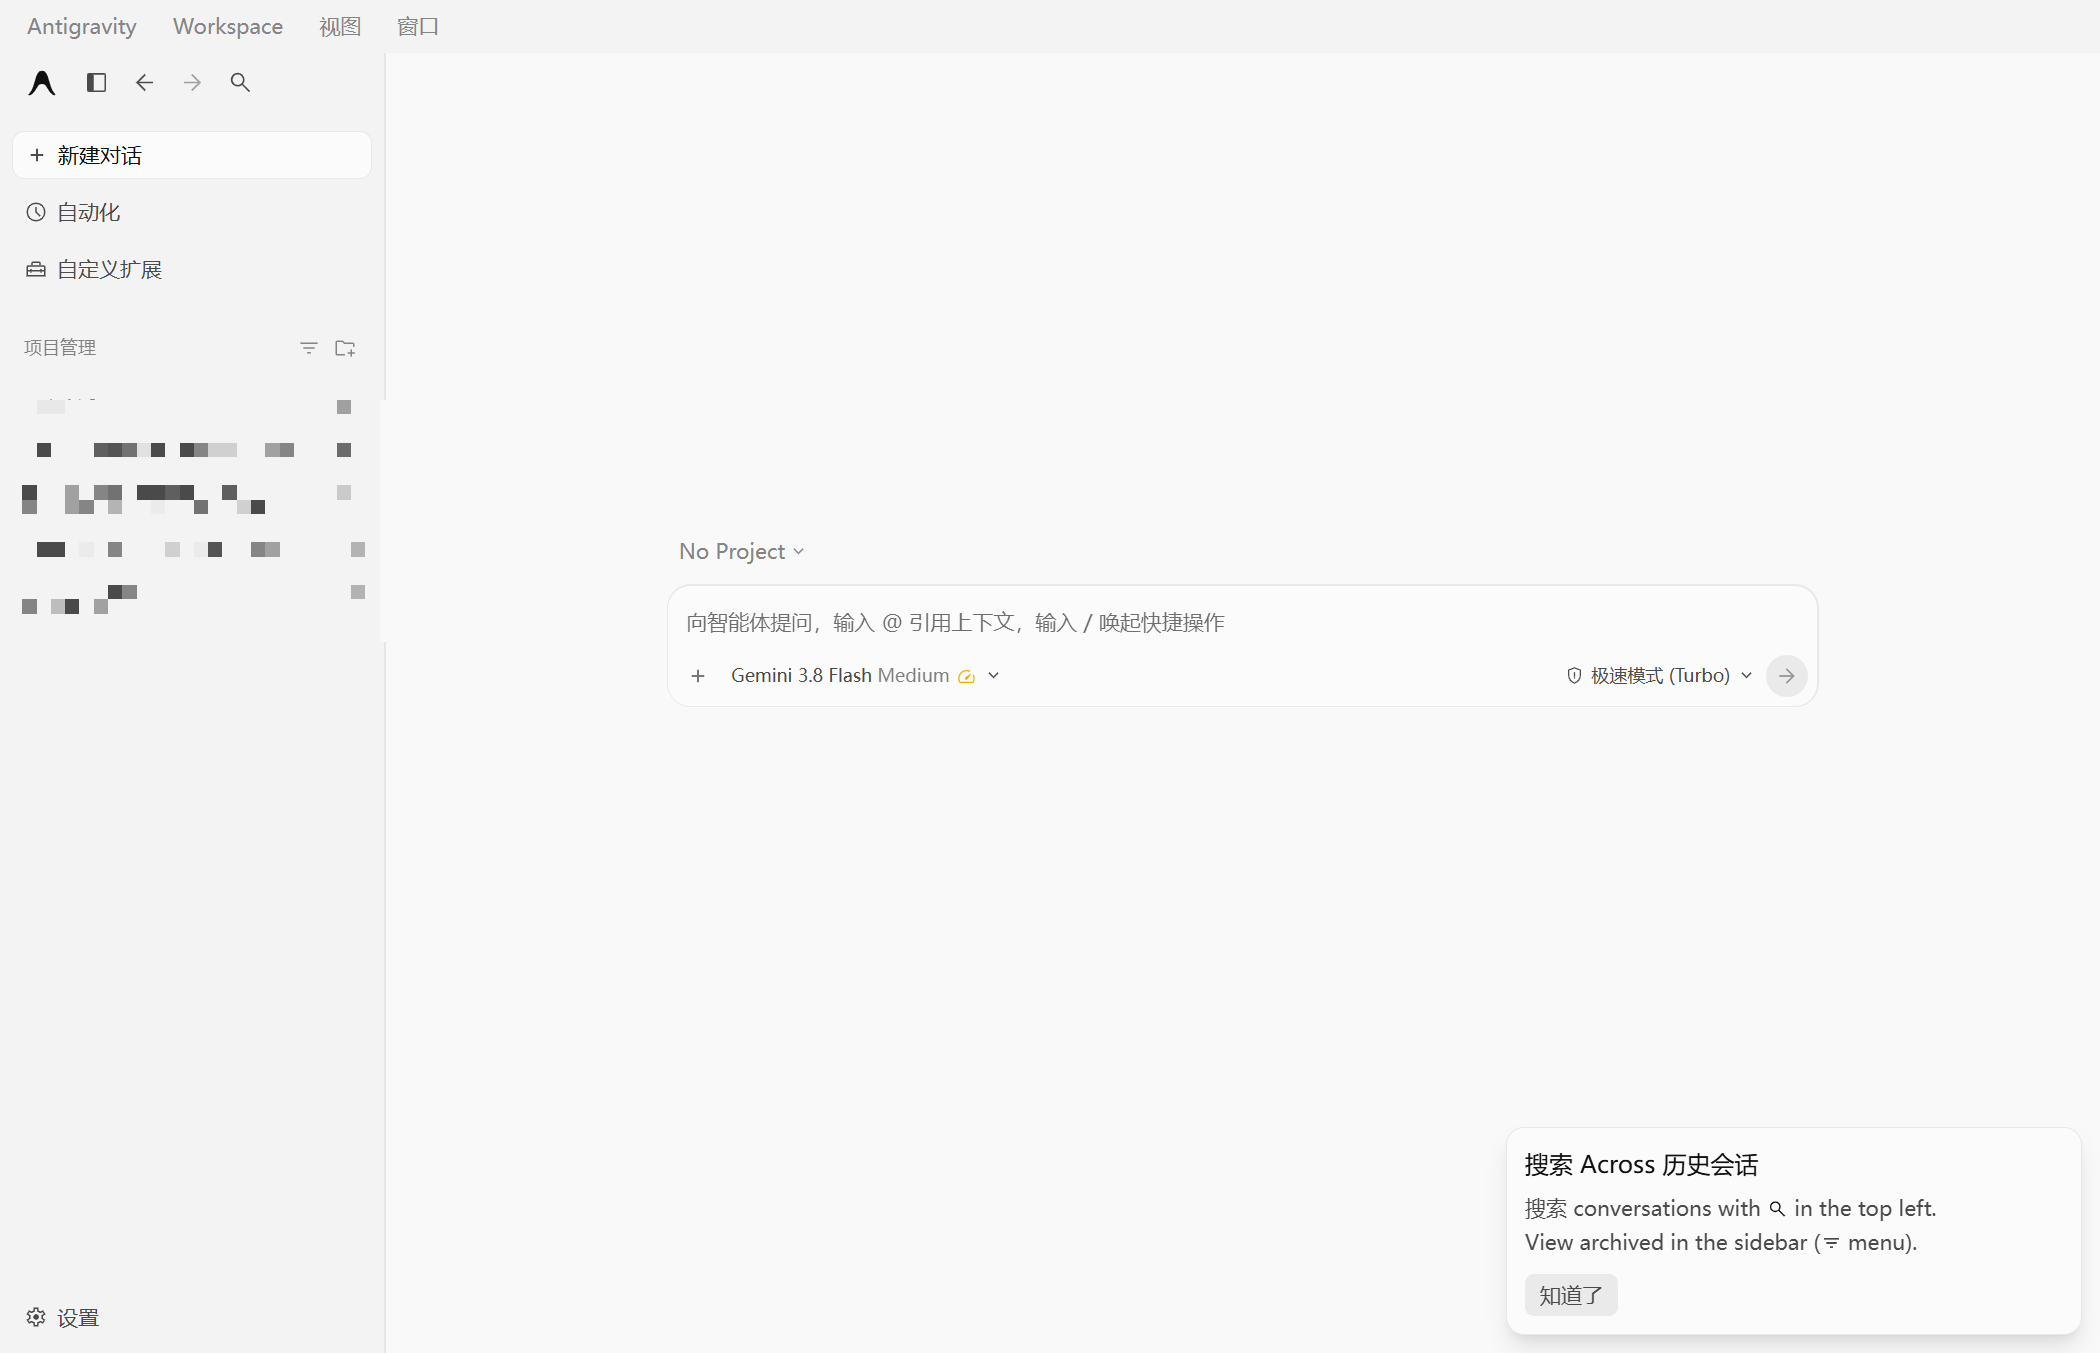
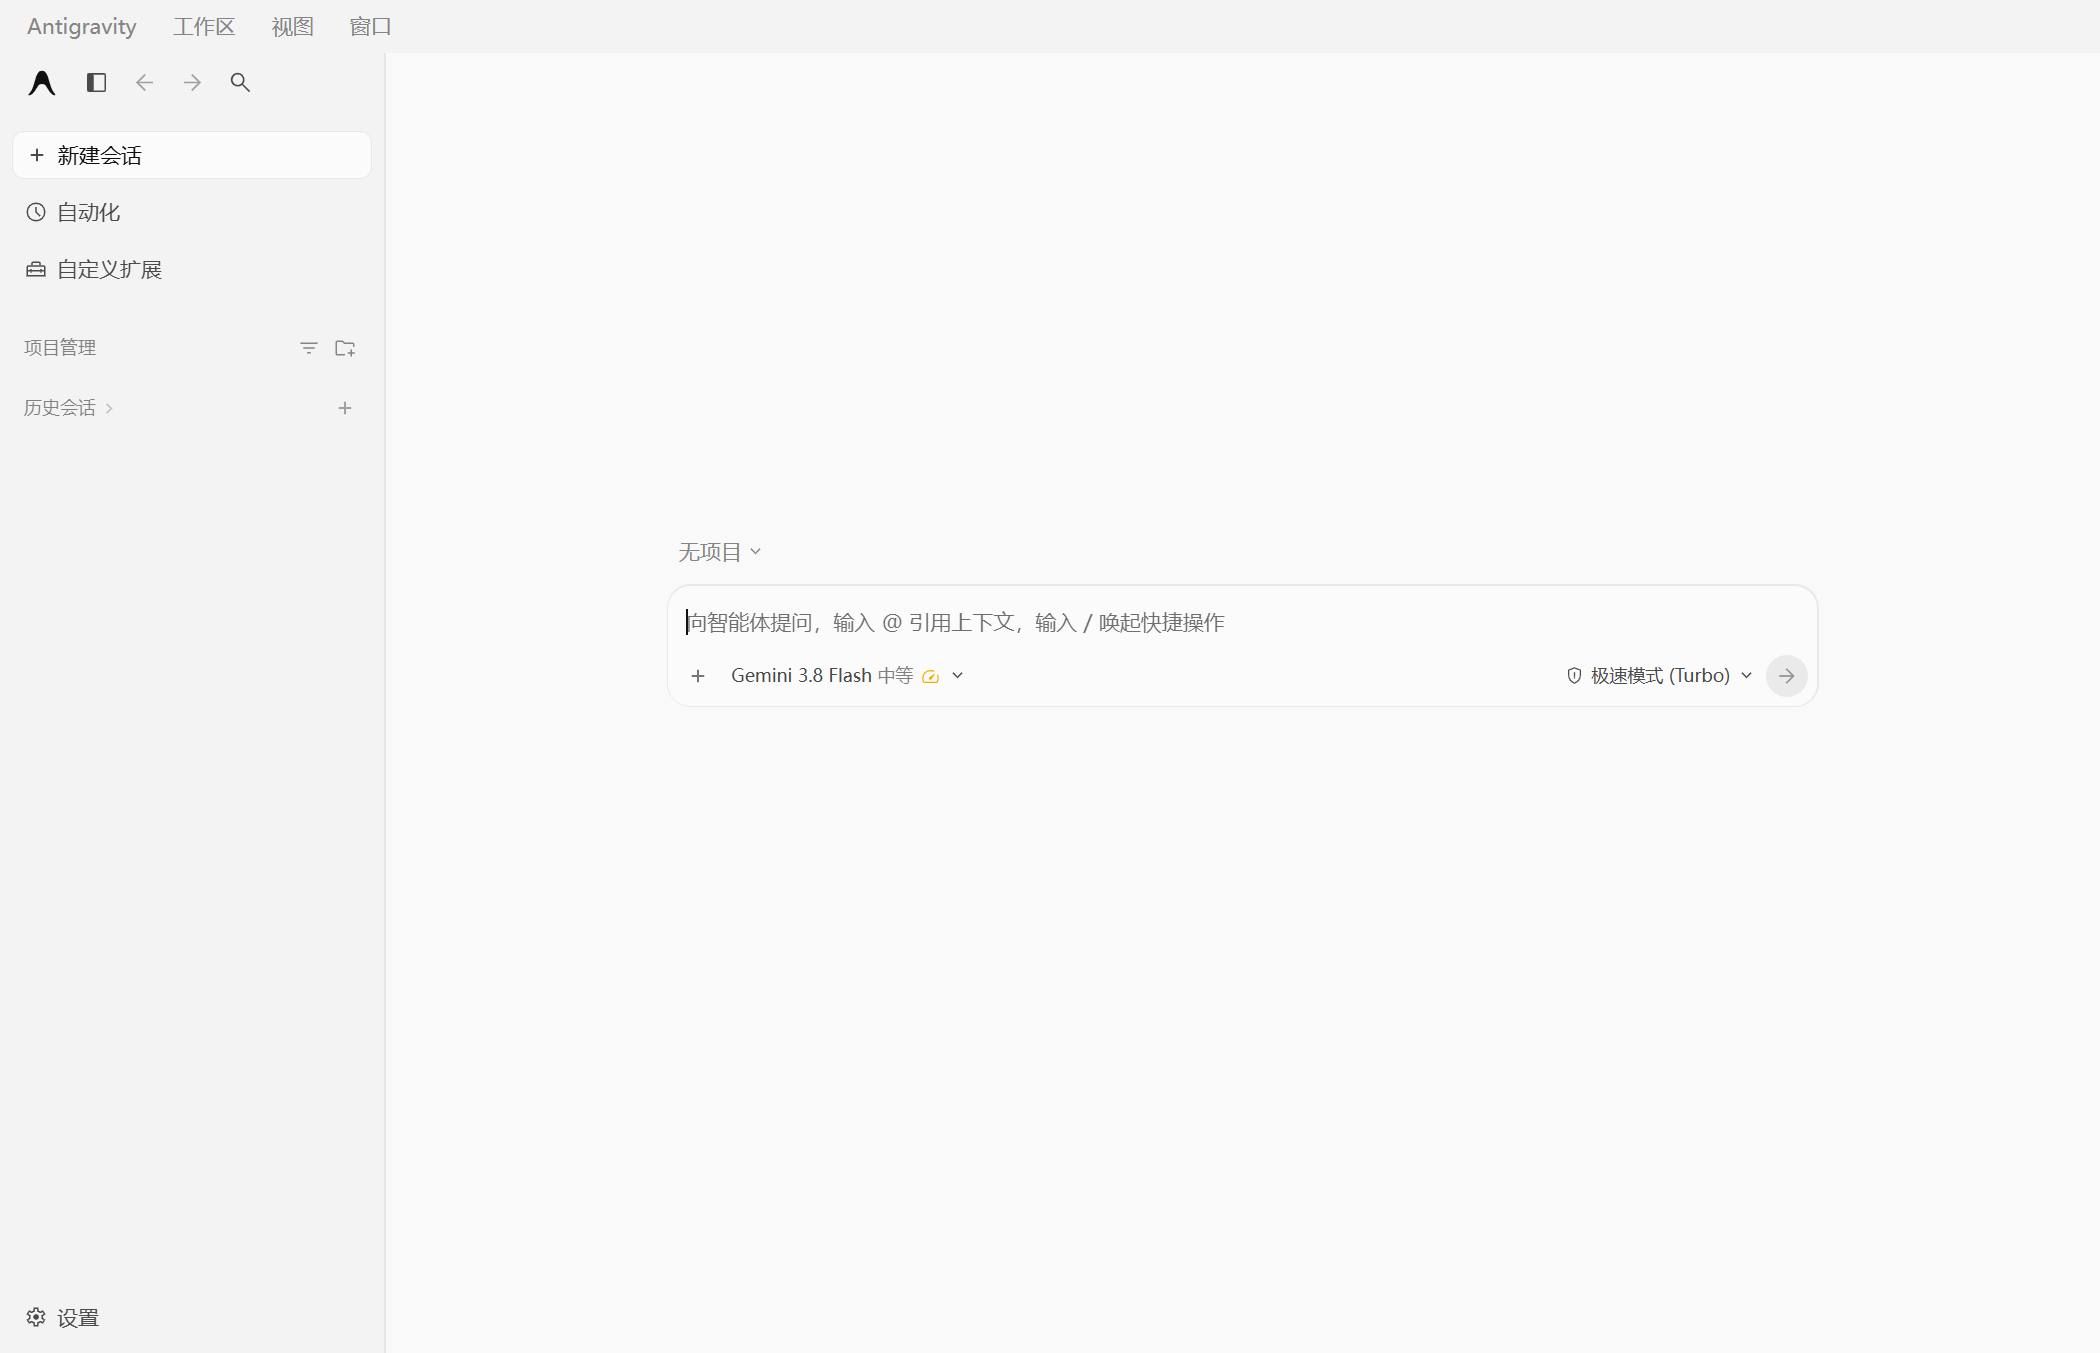
docs: README 补两张设置界面截图，main.png 换成修复后版本
- 新增 settings-general.png / settings-app.png，展示设置面板全中文
- 删掉旧 settings.png：里面 Learn more 关于、Plan Review Policy、
  Terminal & Tooling Permissions、Give Feedback 还是英文，左侧还是硬边马赛克
- main.png 重截：旧图顶栏 Workspace、中间 No Project、右下角
  「搜索 Across 历史会话」提示卡，全是这两轮修掉的残留
- 新增 scripts/shot_settings.js：CDP 点开设置、按页截图
- 截图左下角账号区统一羽化打码，邮箱不进仓库
- build/shots/ 加进 .gitignore（原始截图不入库）

diff --git a/scripts/shot_settings.js b/scripts/shot_settings.js
@@ -1,0 +1,121 @@
+// 连运行中客户端的 CDP，打开设置面板并按页截图，用于 README 展示。
+//
+// 用法:
+//   node scripts/shot_settings.js <输出目录> [页签名...]
+//   node scripts/shot_settings.js build/shots 常规设置 外观设置
+//
+// 不传页签名时，默认截「常规设置」。截图前会点一次左下角「设置」。
+const fs = require('fs');
+const path = require('path');
+const http = require('http');
+
+const portFile = path.join(process.env.APPDATA, 'Antigravity', 'DevToolsActivePort');
+const port = parseInt(fs.readFileSync(portFile, 'utf8').trim().split(/\r?\n/)[0], 10);
+
+const outDir = process.argv[2] || path.join(__dirname, '..', 'build', 'shots');
+const panels = process.argv.slice(3);
+if (!panels.length) panels.push('常规设置');
+
+const sleep = (ms) => new Promise((ok) => setTimeout(ok, ms));
+
+function getJson(url) {
+    return new Promise((resolve, reject) => {
+        http.get(url, (res) => {
+            let d = '';
+            res.on('data', (c) => (d += c));
+            res.on('end', () => { try { resolve(JSON.parse(d)); } catch (e) { reject(e); } });
+        }).on('error', reject);
+    });
+}
+
+function connect(wsUrl) {
+    return new Promise((resolve, reject) => {
+        const ws = new WebSocket(wsUrl);
+        let id = 0;
+        const pending = new Map();
+        ws.onmessage = (ev) => {
+            const m = JSON.parse(ev.data);
+            if (m.id && pending.has(m.id)) { pending.get(m.id)(m); pending.delete(m.id); }
+        };
+        ws.onerror = reject;
+        ws.onopen = () => resolve({
+            call: (method, params) => new Promise((res, rej) => {
+                const i = ++id;
+                pending.set(i, (m) => (m.error ? rej(new Error(JSON.stringify(m.error))) : res(m.result)));
+                ws.send(JSON.stringify({ id: i, method, params: params || {} }));
+            }),
+            evaluate: (expr) => new Promise((res, rej) => {
+                const i = ++id;
+                pending.set(i, (m) => {
+                    if (m.error) return rej(new Error(JSON.stringify(m.error)));
+                    const r = m.result && m.result.result;
+                    if (!r) return rej(new Error('no result'));
+                    if (r.subtype === 'error') return rej(new Error(r.description || 'eval error'));
+                    res(r.value);
+                });
+                ws.send(JSON.stringify({
+                    id: i,
+                    method: 'Runtime.evaluate',
+                    params: { expression: expr, returnByValue: true, awaitPromise: true },
+                }));
+            }),
+            close: () => ws.close(),
+        });
+    });
+}
+
+// 点击文本完全相等的叶子节点。优先在可见容器内找，避免点到背后页面。
+const clickExpr = (label) => `(() => {
+  const want = ${JSON.stringify(label)};
+  const vis = [...document.querySelectorAll('*')].filter((el) => {
+    if (el.children.length) return false;
+    if (el.textContent.trim() !== want) return false;
+    const r = el.getBoundingClientRect();
+    if (r.width < 4 || r.height < 4) return false;
+    const s = getComputedStyle(el);
+    return s.visibility !== 'hidden' && s.display !== 'none' && s.opacity !== '0';
+  });
+  if (!vis.length) return 'NOTFOUND';
+  // 取面积最大的那个（通常是真正的按钮/导航项，而不是内层 span）
+  vis.sort((a, b) => {
+    const ra = a.getBoundingClientRect(), rb = b.getBoundingClientRect();
+    return rb.width * rb.height - ra.width * ra.height;
+  });
+  const el = vis[0];
+  el.scrollIntoView({ block: 'center' });
+  el.click();
+  return 'CLICKED';
+})()`;
+
+(async () => {
+    const list = await getJson(`http://127.0.0.1:${port}/json/list`);
+    const pages = list.filter((t) => t.type === 'page' && t.webSocketDebuggerUrl && !/devtools/.test(t.url));
+    const target = pages.find((p) => p.title === 'Antigravity') || pages[0];
+    if (!target) throw new Error('找不到客户端页面，请先启动 Antigravity');
+
+    const c = await connect(target.webSocketDebuggerUrl);
+    await c.call('Page.enable');
+    fs.mkdirSync(outDir, { recursive: true });
+
+    // 1. 打开设置（已打开时点击无副作用）
+    const opened = await c.evaluate(clickExpr('设置'));
+    console.log('打开设置: ' + opened);
+    if (opened === 'NOTFOUND') {
+        // 已经在设置面板里也算正常
+        console.log('  提示: 未找到「设置」按钮，假设面板已打开');
+    }
+    await sleep(1500);
+
+    // 2. 逐页截图
+    for (const [i, panel] of panels.entries()) {
+        const r = await c.evaluate(clickExpr(panel));
+        console.log(`切到「${panel}」: ${r}`);
+        await sleep(1100);
+        const shot = await c.call('Page.captureScreenshot', { format: 'png', fromSurface: true });
+        const file = path.join(outDir, `${String(i + 1).padStart(2, '0')}-${panel}.png`);
+        fs.writeFileSync(file, Buffer.from(shot.data, 'base64'));
+        console.log(`  已保存 ${file} (${Math.round(fs.statSync(file).size / 1024)} KB)`);
+    }
+
+    c.close();
+})().catch((e) => { console.error('失败: ' + e.message); process.exit(1); });

diff --git a/README.md b/README.md
@@ -6,6 +6,12 @@
 
 ![主界面](docs/screenshots/main.png)
 
+设置面板同样全部中文：
+
+![设置 · 常规设置](docs/screenshots/settings-general.png)
+
+![设置 · 应用设置](docs/screenshots/settings-app.png)
+
 ## 安装
 
 1. **下载** Releases 里的 `Antigravity-Chinese-Pack-v2.28.2.zip`，解压到任意文件夹
